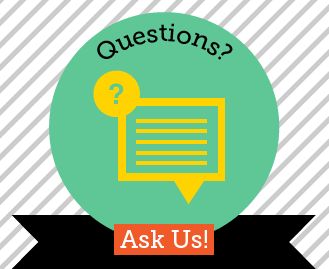
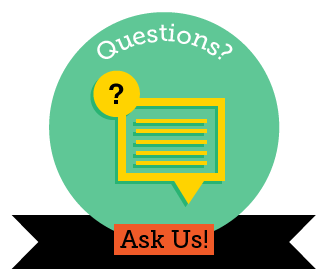
refs #2795 - 17: post layout refactoring style refactoring. Also replaced some sprites.

diff --git a/sass/layouts/esd-home/esd-home.layout.scss b/sass/layouts/esd-home/esd-home.layout.scss
@@ -23,78 +23,80 @@ $grid-padding: $gutter-width;
 
 $container-style: magic;
 
-.header,
-.content,
-.footer {
+.l-header,
+.l-content,
+.l-footer {
   @include container; // Define these elements as the grid containers.
-  @include susy-grid-background; // Show the columns for debugging.
+  //@include susy-grid-background; // Show the columns for debugging.
   margin-bottom: $vert-spacing-unit;
+  width: auto;
+  max-width: none;
 }
 
 @include at-breakpoint($tab_break) {
-  .header,
-  .content,
-  .footer {
+  .l-header,
+  .l-content,
+  .l-footer {
     @include set-container-width;
     @include susy-grid-background;
     width: $tab_width; // static width
   }
 
-  .topbar {
+  .l-topbar {
     @include span-columns(12, 12);
   }
 
-  .content-right {
+  .l-content-right {
     @include span-columns(6 omega, 12);
   }
 
-  .content-left {
+  .l-content-left {
     @include span-columns(6, 12);
   }
 
-  .footer-left {
+  .l-footer-left {
     @include span-columns(4, 12);
   }
 
-  .footer-middle {
-    @include span-columns(3, 12);
+  .l-footer-middle {
+    @include span-columns(4, 12);
   }
 
-  .footer-right {
-    @include span-columns(3 omega, 12);
+  .l-footer-right {
+    @include span-columns(4 omega, 12);
   }
 }
 
 @include at-breakpoint($desk_break) {
-  .header,
-  .content,
-  .footer {
+  .l-header,
+  .l-content,
+  .l-footer {
     @include set-container-width;
     @include susy-grid-background;
     width: $desk_width; // static width
   }
 
-  .topbar {
+  .l-topbar {
     @include span-columns(16, 16);
   }
 
-  .content-right {
+  .l-content-right {
     @include span-columns(10 omega, 16);
   }
 
-  .content-left {
+  .l-content-left {
     @include span-columns(6, 16);
   }
 
-  .footer-left {
+  .l-footer-left {
     @include span-columns(6, 16);
   }
 
-  .footer-middle {
+  .l-footer-middle {
     @include span-columns(5, 16);
   }
 
-  .footer-right {
+  .l-footer-right {
     @include span-columns(5 omega, 16);
   }
 

diff --git a/sass/utils/_vars.scss b/sass/utils/_vars.scss
@@ -45,6 +45,16 @@ $show_in_mobile: "#block-menu-block-1 .selectnav, #block-menu-block-2 .selectnav
     margin: 0px;
     border-right: 1px dotted $grey;
   }
+  .l-region--footer-fourth {
+    @include push(4);
+  }
+}
+
+@include at-breakpoint($desk_break) {
+  .l-region--footer-fourth {
+    @include push(6);
+  }
+
 }
 
 /* MIXin Mingle */
@@ -184,27 +194,27 @@ $show_in_mobile: "#block-menu-block-1 .selectnav, #block-menu-block-2 .selectnav
   background: {
     image: url(../images/whiteArrowRight.png);
     repeat: no-repeat;
-    position: 99% center;
+    position: 98% center;
   }
 }
 @mixin rightWhiteArrowBig {
   background: {
     image: url(../images/heavyWhiteArrowRight.png);
     repeat: no-repeat;
-    position: 99% center;
+    position: 98% center;
   }
 }
 @mixin downBlackArrow {
   background: {
     image: url(../images/blackArrowDown.png);
     repeat: no-repeat;
-    position: 99% center;
+    position: 98% center;
   }
 }
 @mixin downBlackArrowBig {
   background: {
     image: url(../images/heavyBlackArrowRight.png);
     repeat: no-repeat;
-    position: 99% center;
+    position: 98% center;
   }
 }

diff --git a/sass/_base.scss b/sass/_base.scss
@@ -42,7 +42,7 @@ a {
   }
 }
 
-.l-main {
+.l-content {
   h1 {
     margin: 0;
     padding: 15px 10px;
@@ -103,6 +103,7 @@ a {
 }
 .mollom-privacy {
   @include yellowUnderlineLink;
+  font-size: 14px;
 }
 .feed-icon {
   float: right;
@@ -114,14 +115,14 @@ a {
   margin: 50px 0 25px;
 }
 
-.l-region--highlighted {
+.l-header {
   .block, .block__content {
     display: inline-block;
   }
 }
 
 /* Navigation */
-.l-region--navigation {
+.l-region--branding {
   @include clearListStyles;
   margin-bottom: 20px;
   ul.menu li {
@@ -251,12 +252,12 @@ a {
 .section-aprenda,
 .section-take-action,
 .section-learn {
-  .l-region--navigation {
+  .l-region--branding {
     ul.menu ul.menu {
       display: none !important;
     }
   }
-  .l-content {
+  .l-content-right {
     @include clearListStyles;
     ul.menu li {
       margin-bottom: 5px;
@@ -268,10 +269,10 @@ a {
     }
   }
 }
-.section-learn .l-content h1 {
+.section-learn .l-content-right h1 {
   @include bgLightbulb;
 }
-.section-take-action .l-content h1 {
+.section-take-action .l-content-right h1 {
   @include bgActionArrow;
 }
 

diff --git a/js/esd_frontend.js b/js/esd_frontend.js
@@ -36,7 +36,9 @@ Drupal.theme.prototype.buildSelectnav = function($menuUl, $menuNum) {
 Drupal.theme.prototype.layoutResizeChanges = function() {
   if ($.matchmedia(query)) {
     $('.l-content').css('min-height','');
+    $('.l-region--footer-fourth').appendTo($('.l-footer-right'));
   } else {
+    $('.l-region--footer-fourth').appendTo($('.l-header'));
     Drupal.theme('equalColumns');
   }
 };

diff --git a/sass/components/_blocks.scss b/sass/components/_blocks.scss
@@ -27,8 +27,7 @@
 }
 
 #block-boxes-school-leaders {
-  float: right;
-  margin: 0;
+  margin: 0 0 0 30px;
   .boxes-box-content {
     p {
       margin: 10px 0;

diff --git a/sass/components/_forms.scss b/sass/components/_forms.scss
@@ -1,6 +1,5 @@
 
-
-.l-main form {
+form {
   fieldset {
     border: 0 none;
     margin: 0 0 35px;

diff --git a/layouts/esd-home/esd-home.tpl.php b/layouts/esd-home/esd-home.tpl.php
@@ -1,10 +1,10 @@
-<header class="header">
+<header class="l-header">
   <!-- intentionally left empty for progressive enhancement elements -->
 </header>
 
-<div class="content">
+<div class="l-content">
 
-<aside class="content-left">
+<aside class="l-content-left">
   <div class="branding" role="banner">
     <?php if ($logo): ?>
       <a href="<?php print $front_page; ?>" title="<?php print t('Home'); ?>" rel="home" class="site-logo"><img src="<?php print $logo; ?>" alt="<?php print t('Home'); ?>" /></a>
@@ -27,9 +27,9 @@
   </div>
 </aside>
 
-<section class="content-right">
+<section class="l-content-right">
   <?php print render($page['pre_content']); ?>
-  <div class="l-content" role="main">
+  <div class="l-content-main" role="main">
     <a id="main-content"></a>
     <?php print render($title_prefix); ?>
     <?php if ($title): ?>
@@ -46,19 +46,23 @@
     <?php print $feed_icons; ?>
   </div>
   <?php print render($page['post_content']); ?>
+  <?php print render($page['actions']); ?>
+
 </section>
 
 </div>
 
-<div class="footer">
-  <footer class="footer-left" role="contentinfo">
-    <?php print render($page['footer_first']); ?>
-  </footer>
-  <footer class="footer-middle">
-    <?php print render($page['footer_second']); ?>
-  </footer>
-  <footer class="footer-right">
-    <?php print render($page['footer_third']); ?>
-    <?php print render($page['footer_fourth']); ?>
-  </footer>
+<div class="l-footer-wrapper">
+  <div class="l-footer">
+    <footer class="l-footer-left" role="contentinfo">
+      <?php print render($page['footer_first']); ?>
+    </footer>
+    <footer class="l-footer-middle">
+      <?php print render($page['footer_second']); ?>
+    </footer>
+    <footer class="l-footer-right">
+      <?php print render($page['footer_third']); ?>
+      <?php print render($page['footer_fourth']); ?>
+    </footer>
+  </div>
 </div>
